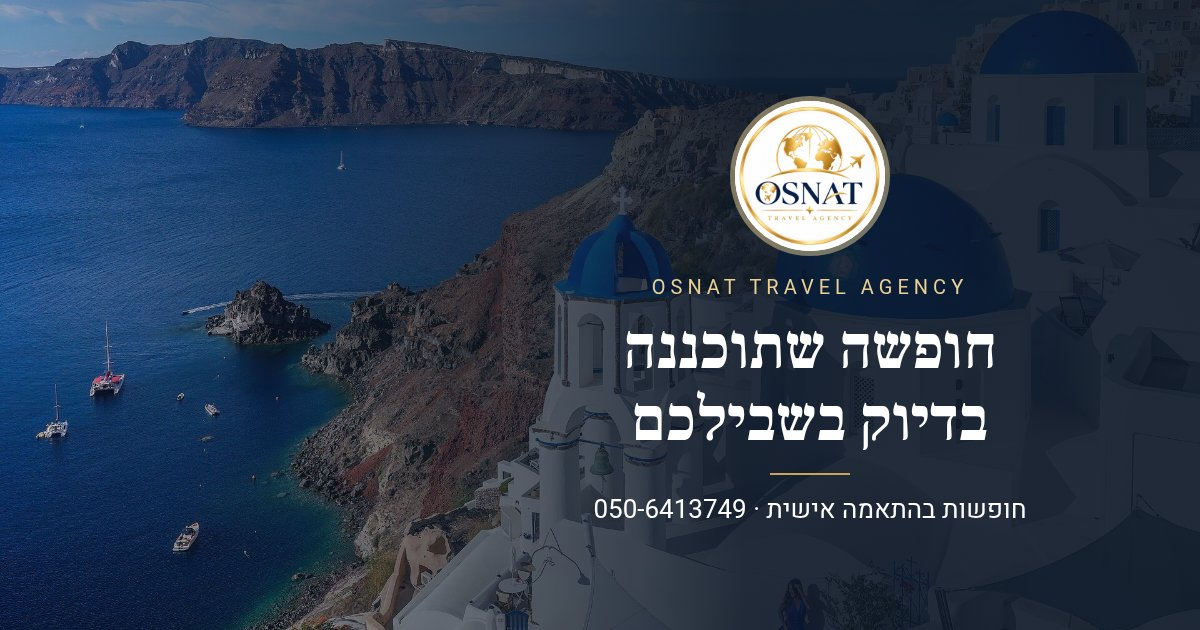
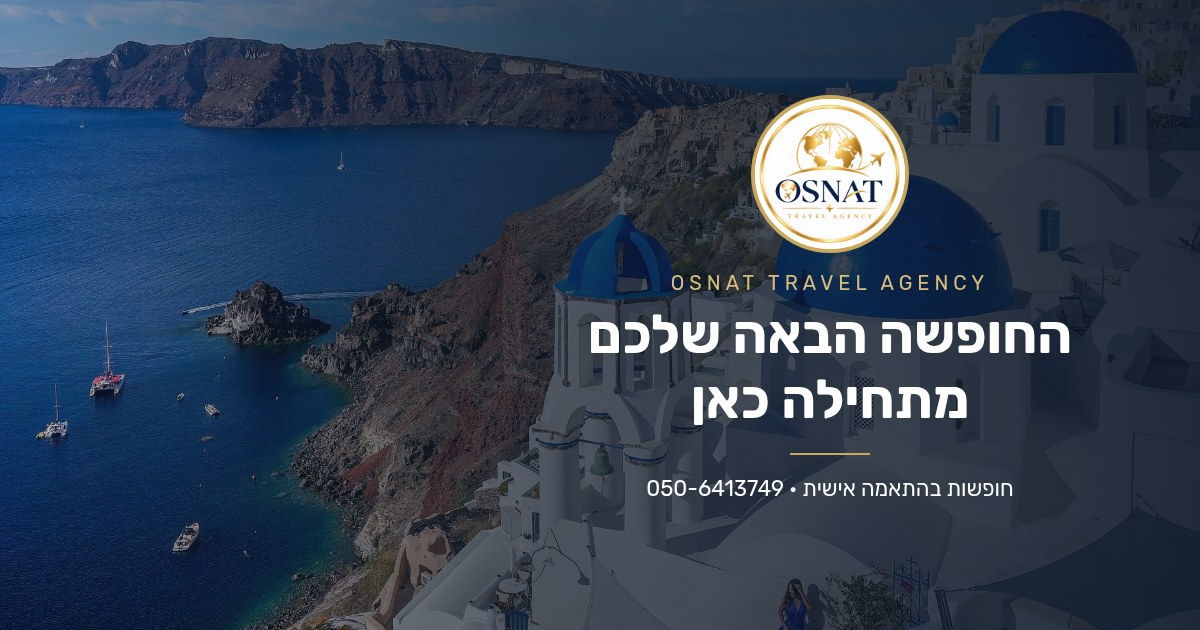
Update home OG image headline, cache-bust og:image

Changed region(s): [[0.4933, 0.1206, 0.8942, 1.0], [0.5858, 0.0, 0.6475, 0.0603]]

diff --git a/index.html b/index.html
@@ -1,7 +1,7 @@
 <!doctype html><html lang="he" dir="rtl"><head><meta charset="utf-8"><meta name="viewport" content="width=device-width,initial-scale=1,viewport-fit=cover">
 <title>OSNAT TRAVEL AGENCY | חופשות בהתאמה אישית</title>
 <meta name="description" content="OSNAT TRAVEL AGENCY – חופשות בהתאמה אישית. תכנון אישי, חבילות ודילים וליווי מלא מההתחלה ועד הסוף. דברו איתנו: 050-6413749">
-<meta property="og:title" content="OSNAT TRAVEL AGENCY | חופשות בהתאמה אישית"><meta property="og:description" content="החופשה הבאה שלכם מתחילה כאן. תכנון אישי, חבילות ודילים וליווי מלא · 050-6413749"><meta property="og:image" content="https://osnat-travel.com/og-home.jpg"><meta property="og:image:width" content="1200"><meta property="og:image:height" content="630"><meta property="og:url" content="https://osnat-travel.com/"><meta property="og:type" content="website"><meta property="og:locale" content="he_IL"><meta name="twitter:card" content="summary_large_image"><meta name="theme-color" content="#0B1626">
+<meta property="og:title" content="OSNAT TRAVEL AGENCY | חופשות בהתאמה אישית"><meta property="og:description" content="החופשה הבאה שלכם מתחילה כאן. תכנון אישי, חבילות ודילים וליווי מלא · 050-6413749"><meta property="og:image" content="https://osnat-travel.com/og-home.jpg?v=2"><meta property="og:image:width" content="1200"><meta property="og:image:height" content="630"><meta property="og:url" content="https://osnat-travel.com/"><meta property="og:type" content="website"><meta property="og:locale" content="he_IL"><meta name="twitter:card" content="summary_large_image"><meta name="theme-color" content="#0B1626">
 <link rel="icon" href="assets/logo.png"><link rel="preload" as="image" href="assets/hero-family-beach.jpg">
 <link rel="preconnect" href="https://fonts.googleapis.com"><link rel="preconnect" href="https://fonts.gstatic.com" crossorigin>
 <link href="https://fonts.googleapis.com/css2?family=Frank+Ruhl+Libre:wght@500;700&family=Heebo:wght@300;400;500;700&display=swap" rel="stylesheet">
